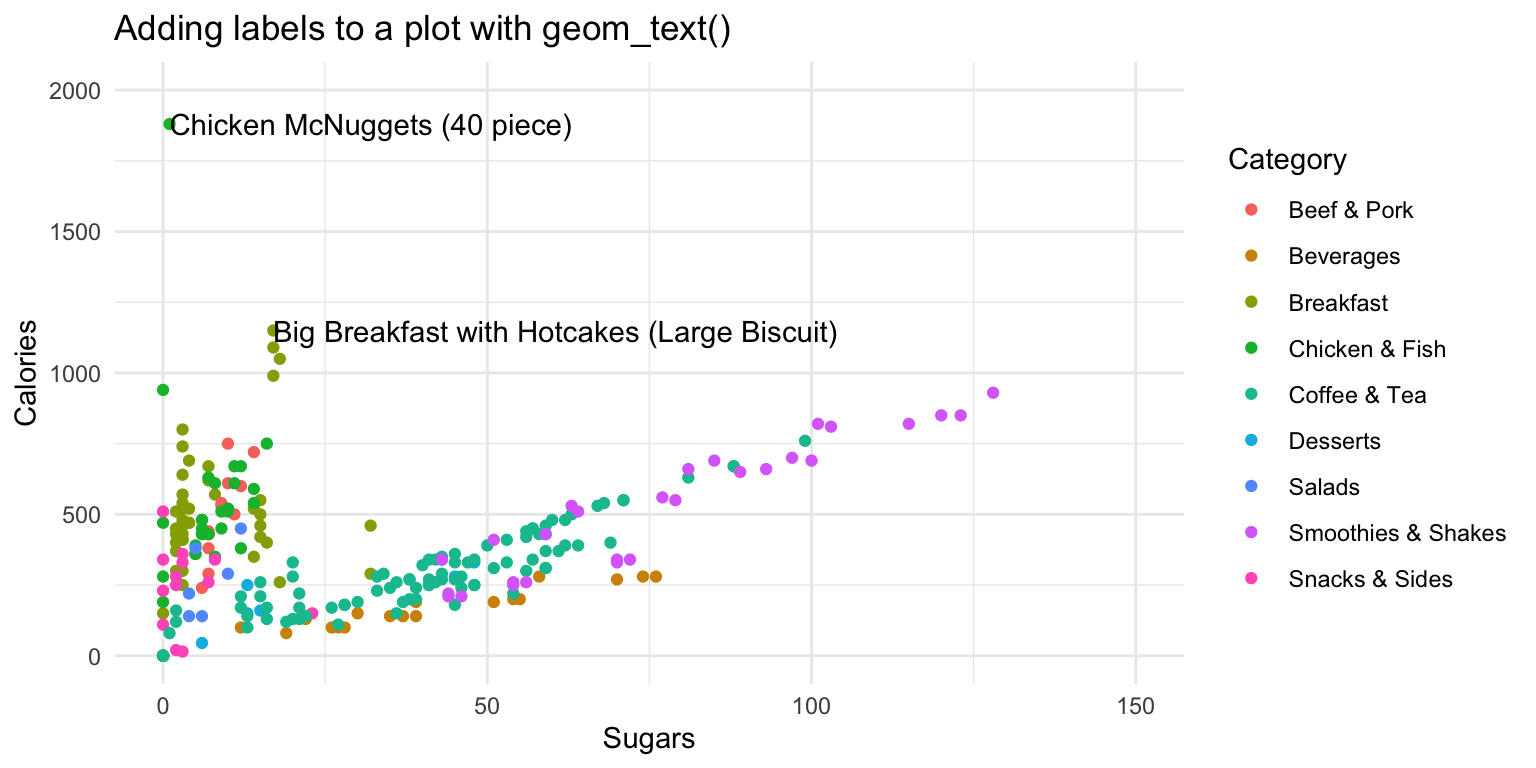
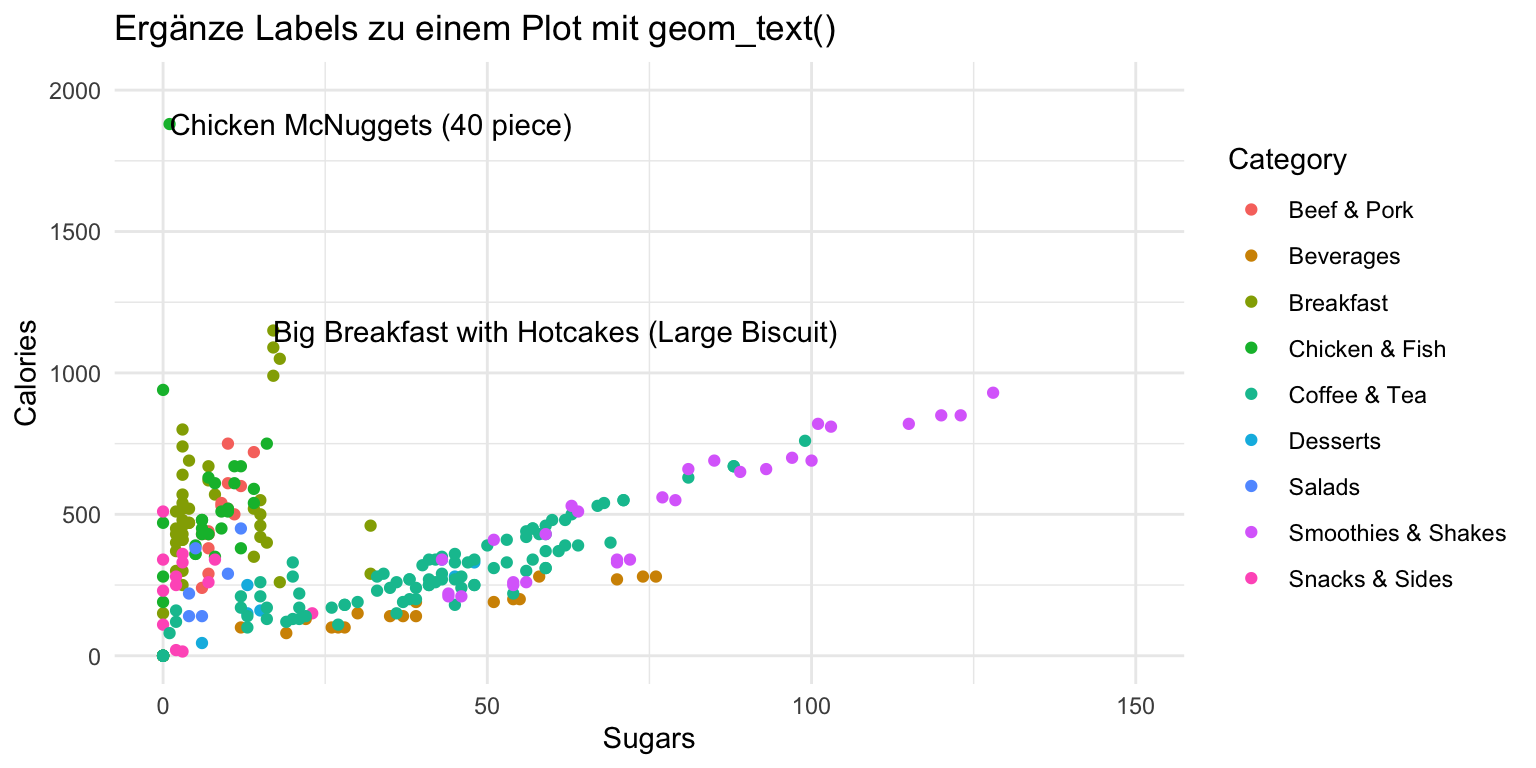
QC plotting practical

Changed region(s): [[0.0625, 0.0, 0.5625, 0.0625]]

diff --git a/_sessions/Plotting/Plotting_practical.html b/_sessions/Plotting/Plotting_practical.html
@@ -7,6 +7,7 @@
 <meta charset="utf-8" />
 <meta http-equiv="Content-Type" content="text/html; charset=utf-8" />
 <meta name="generator" content="pandoc" />
+<meta http-equiv="X-UA-Compatible" content="IE=EDGE" />
 
 
 
@@ -84,7 +85,6 @@ code {
 }
 img {
   max-width:100%;
-  height: auto;
 }
 .tabbed-pane {
   padding-top: 12px;
@@ -158,18 +158,6 @@ summary {
 }
 </style>
 
-<script>
-$(document).ready(function () {
-  window.buildTabsets("TOC");
-});
-
-$(document).ready(function () {
-  $('.tabset-dropdown > .nav-tabs > li').click(function () {
-    $(this).parent().toggleClass('nav-tabs-open')
-  });
-});
-</script>
-
 <!-- code folding -->
 
 
@@ -241,7 +229,7 @@ $(document).ready(function () {
 <h3>B - Lade den Datensatz</h3>
 <ol style="list-style-type: decimal">
 <li><p>Verwende die <code>read_csv()</code> Funktion um den Datensatz <code>mcdonalds</code> als Objekt <code>mcdonalds</code> einzulesen. Denkt an den Trick mit den Anführungszeichen.</p></li>
-<li><p>Printe den Datensatz an. Wurden alle Variablentypen korrekt identifiziert?</p></li>
+<li><p>Printe den Datensatz. Wurden alle Variablentypen korrekt identifiziert?</p></li>
 <li><p>Verwende <code>summary()</code> um einen weiteren Überblick über die Daten zu bekommen.</p></li>
 </ol>
 </div>
@@ -266,7 +254,7 @@ $(document).ready(function () {
 <pre class="r"><code>ggplot(mcdonalds, aes(x = XX, y = XX, col = XX)) +
   geom_point() </code></pre>
 <ol start="5" style="list-style-type: decimal">
-<li>Oops! Hast du mehre Linien bekommen anstatt einer? Löse das Problem indem du die Farbe innerhalb von <code>geom_smooth()</code> auf <code>black</code> setzt.</li>
+<li>Oops! Hast du mehre Linien anstatt einer bekommen? Löse das Problem indem du die Farbe innerhalb von <code>geom_smooth()</code> auf <code>black</code> setzt.</li>
 </ol>
 <pre class="r"><code>ggplot(mcdonalds, aes(x = XX, y = XX, col = XX)) +
   geom_point() +
@@ -281,7 +269,7 @@ $(document).ready(function () {
        subtitle = &quot;XX&quot;,
        caption = &quot;XX&quot;)</code></pre>
 <ol start="7" style="list-style-type: decimal">
-<li>Verwende <code>xlim()</code>, eine einfache Version on <code>scale_x_continuous()</code>, um die x-Achse auf die Werte <code>0</code> und <code>1250</code> zu begrenzen.</li>
+<li>Verwende <code>xlim()</code>, eine einfache Version von <code>scale_x_continuous()</code>, um die x-Achse auf die Werte <code>0</code> und <code>1250</code> zu begrenzen.</li>
 </ol>
 <pre class="r"><code>ggplot(mcdonalds, aes(x = XX, y = XX, col = XX)) +
   geom_point() +
@@ -297,7 +285,7 @@ $(document).ready(function () {
 <div id="d---geoms" class="section level3">
 <h3>D - <code>geom</code>s</h3>
 <ol style="list-style-type: decimal">
-<li>Verwende den Code unten um einen Violinen Plot der <code>Calories</code> als Funktion der <code>Category</code> zu kreieren. Violinenplots zeigeen mit ihrer Dicke die jeweilige relative Häufigkeit der Werte, in diesem der Kalorien.</li>
+<li>Verwende den Code unten um einen Violinen Plot der <code>Calories</code> als Funktion der <code>Category</code> zu kreieren. Violinenplots zeigen mit ihrer Dicke die jeweilige relative Häufigkeit der Werte, in diesem Fall der Kalorien.</li>
 </ol>
 <pre class="r"><code>ggplot(data = mcdonalds, 
        aes(x = XX, y = XX, fill = XX)) +
@@ -345,7 +333,7 @@ $(document).ready(function () {
 <ol start="2" style="list-style-type: decimal">
 <li><p>Nun ergänze <code>geom_text()</code> mit dem Ziel für jeden Punkt das entsprechende <code>Item</code> Label anzeigen zu lassen.</p></li>
 <li><p>Wo sind die Labels? Ah, wir haben <code>ggplot</code> nicht gesagt welche Spalte die Information beinhaltet, die in den labels stehen soll. Behebe dieses Problem indem du innerhalb der <code>aes()</code> Funktion dem Argument <code>label</code> die Spalte <code>Item</code> zuweist. Jetzt solltest du viele labels sehen!</p></li>
-<li><p>Passe <code>geom_text()</code> an indem du <code>col</code> auf <code>black</code>, <code>check_overlap</code> auf <code>TRUE</code>, und <code>hjust</code> auf <code>left</code> setzt.</p></li>
+<li><p>Passe <code>geom_text()</code> an in dem du <code>col</code> auf <code>black</code>, <code>check_overlap</code> auf <code>TRUE</code>, und <code>hjust</code> auf <code>left</code> setzt.</p></li>
 <li><p>Verwende nun das <code>data</code> Argument in <code>geom_text()</code> und weise ihm nur einen gefilterten Auschnitt des <code>mcdonalds</code> Datensatzes zuweist, nämlich <code>data = mcdonalds %&gt;% filter(Calories &gt; 1100)</code>. Schau was passiert.</p></li>
 <li><p>Probiere ein paar Sachen aus:</p></li>
 </ol>
@@ -357,7 +345,7 @@ $(document).ready(function () {
 <div id="f---statistiken" class="section level3">
 <h3>F - Statistiken</h3>
 <ol style="list-style-type: decimal">
-<li>Mit der <code>stat_summary</code> können auch direkt einfache Statistiken berechnet und geplotted werden. Verwendet den folgenden Code um die <code>Calories</code> (y-Achse) gegen <code>Categories</code> zu plotte. Annotiert angemessen.</li>
+<li>Mit der <code>stat_summary</code> können auch direkt einfache Statistiken berechnet und geplotted werden. Verwende den folgenden Code um die <code>Calories</code> (y-Achse) gegen <code>Categories</code> zu plotten. Annotiere angemessen.</li>
 </ol>
 <pre class="r"><code>ggplot(XX, aes(x = XX, y = X)) +
   stat_summary(geom = &quot;bar&quot;, 
@@ -366,18 +354,18 @@ $(document).ready(function () {
        subtitle = &quot;XX&quot;)</code></pre>
 <p><img src="Plotting_practical_files/figure-html/unnamed-chunk-29-1.png" width="960" style="display: block; margin: auto;" /></p>
 <ol start="2" style="list-style-type: decimal">
-<li>Probiert ein paar Sachen aus:</li>
+<li>Probiere ein paar Sachen aus:</li>
 </ol>
 <ul>
-<li>Verwendet den <code>&quot;median&quot;</code> anstatt <code>&quot;mean&quot;</code>.</li>
-<li>Gebt jedem Balken eine andere Farbe.</li>
-<li>Ergänzt Punkte über den Balken mit <code>geom_point()</code>, <code>geom_count()</code>, oder <code>geom_jitter()</code>.</li>
+<li>Verwende den <code>&quot;median&quot;</code> anstatt <code>&quot;mean&quot;</code>.</li>
+<li>Gib jedem Balken eine andere Farbe.</li>
+<li>Ergänze Punkte über den Balken mit <code>geom_point()</code>, <code>geom_count()</code>, oder <code>geom_jitter()</code>.</li>
 </ul>
 </div>
 <div id="x---challenges" class="section level3">
 <h3>X - Challenges</h3>
 <ol style="list-style-type: decimal">
-<li>Kreiert euren eigenen, neuen Plot mit dem <code>mcdonalds</code> Datensatz. Weitere <code>geom</code>s und alles weitere findet ihr <a href="https://ggplot2.tidyverse.org/reference/"><strong>hier</strong></a></li>
+<li>Kreiere deinen eigenen, neuen Plot mit dem <code>mcdonalds</code> Datensatz. Weitere <code>geom</code>s und alles weitere findest du <a href="https://ggplot2.tidyverse.org/reference/"><strong>hier</strong></a></li>
 </ol>
 </div>
 </div>
@@ -406,8 +394,7 @@ ggplot(data = mpg,
        mapping = aes(x = displ, y = hwy)) +
        geom_count()   
 
-# Assign class to the color aesthetic and add labels with labs()
-
+# Assigne class zum col Argument und füge labels mit labs() hinzu 
 ggplot(data = mpg, 
   mapping = aes(x = displ, y = hwy, col = class)) +  
   geom_point(size = 3, position = &#39;jitter&#39;) +
@@ -419,7 +406,6 @@ ggplot(data = mpg,
   
 
 # Ergänze eine Kurve für jede Klasse
-
 ggplot(data = mpg, 
        mapping = aes(x = displ, 
                      y = hwy, 
@@ -428,7 +414,6 @@ ggplot(data = mpg,
   geom_smooth(method = &quot;lm&quot;)
 
 # Ergänze eine Kurve für alle Klassen zusammen
-
 ggplot(data = mpg, 
        mapping = aes(x = displ, 
                      y = hwy, 
@@ -580,6 +565,23 @@ $(document).ready(function () {
 
 
 </script>
+
+<!-- tabsets -->
+
+<script>
+$(document).ready(function () {
+  window.buildTabsets("TOC");
+});
+
+$(document).ready(function () {
+  $('.tabset-dropdown > .nav-tabs > li').click(function () {
+    $(this).parent().toggleClass('nav-tabs-open')
+  });
+});
+</script>
+
+<!-- code folding -->
+
 
 <!-- dynamically load mathjax for compatibility with self-contained -->
 <script>

diff --git a/_sessions/Plotting/Plotting_practical_files/navigation-1.1/codefolding.js b/_sessions/Plotting/Plotting_practical_files/navigation-1.1/codefolding.js
@@ -22,7 +22,7 @@ window.initializeCodeFolding = function(show) {
 
     // create a collapsable div to wrap the code in
     var div = $('<div class="collapse r-code-collapse"></div>');
-    if (show)
+    if (show || $(this)[0].classList.contains('fold-show'))
       div.addClass('in');
     var id = 'rcode-643E0F36' + currentIndex++;
     div.attr('id', id);
